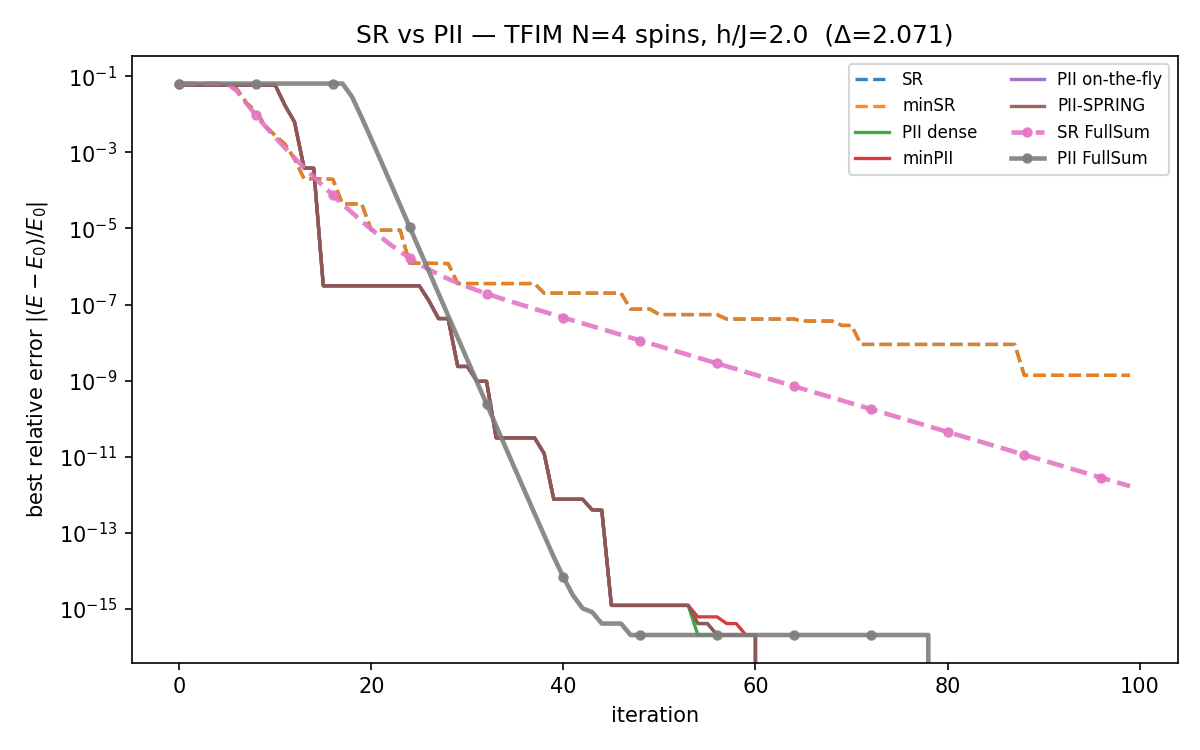
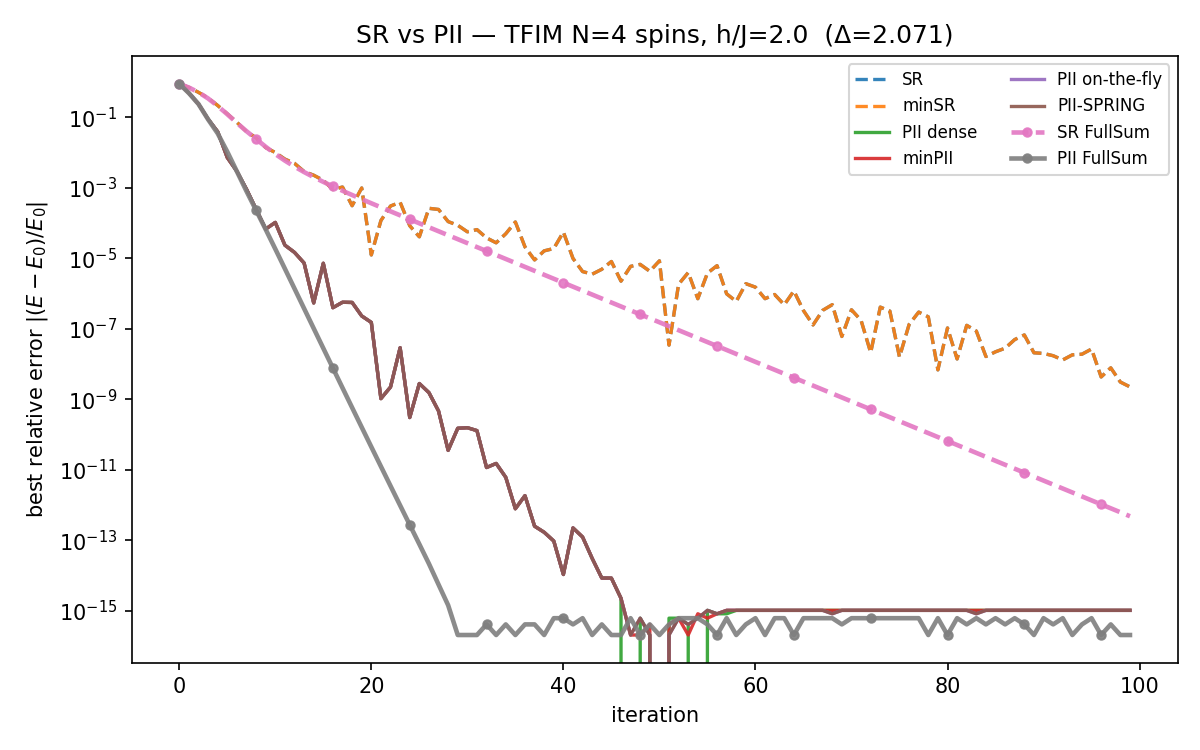
First working version of all methods, with comparison scripts

diff --git a/test/test_convention.py b/test/test_convention.py
@@ -1,0 +1,168 @@
+r"""Lock the SR↔PII factor-of-2, η=1, and SPRING conventions.
+
+These tests pin, against independent references (NetKet's own energy gradient and
+hand-assembled linear systems), that:
+
+- SR solves ``S ξ = ∇E``           (no ½),
+- PII solves ``Q ξ = ½∇E`` with ``Q = H − τS + λI``, and the driver with ``η=1``
+  applies exactly ``θ ← θ − Q⁻¹(½∇E)`` (paper Eq. 5),
+- the ½ is the *only* difference (adversarial "missing-½ would 2×" control, and the
+  τ→−∞ asymptotic ``‖ξ_PII‖/‖ξ_SR‖ → 1/(2|τ|)``),
+- SPRING carries the ½ and the ``λμ`` anchor correctly (Eq. 36), with all paths
+  consistent and ``momentum=0`` ≡ plain PII.
+
+All deterministic: exact ``FullSumState`` (no MC noise) for the gradient/step checks,
+and fixed sampler-free inputs for the SPRING unit checks.
+"""
+
+import jax
+import jax.numpy as jnp
+import jax.flatten_util as fu
+import numpy as np
+import optax
+import netket as nk
+
+import pii
+from pii._ngd.common import _prepare_input, _prepare_weights, get_samples_and_pdf
+from pii._ngd.local_energy import make_local_energy_funs
+from pii._ngd.pii_dense import _compute_pii_update_dense
+from pii._ngd.pii_kernel import _compute_minpii_update
+
+from .common import tfim, make_fullsum, fixed_inputs, gen_solver
+
+LAM = 1e-3
+
+
+def _ravel(tree):
+    return np.asarray(fu.ravel_pytree(tree)[0])
+
+
+def _assemble_fullsum(vs, H):
+    """Reconstruct the centered/scaled (O_L, A_L, dv) exactly as ``_pii_common`` does."""
+    samples, pdf_raw = get_samples_and_pdf(vs)
+    pdf, mass = _prepare_weights(pdf_raw, samples.shape[0])
+    f_EL, f_A = make_local_energy_funs(vs, H)
+    eloc = f_EL(vs.variables, samples)
+    jac_kw = dict(mode="real", dense=True, center=True, pdf=pdf)
+    O = nk.jax.jacobian(vs._apply_fun, vs.parameters, samples, vs.model_state, **jac_kw)
+    A = nk.jax.jacobian(f_A, vs.parameters, samples, vs.model_state, **jac_kw)
+    return _prepare_input(O, A, eloc, mode="real", scaling_factor=mass)
+
+
+def _one_step_param_delta(vs, H, **vmc_kw):
+    """Run one driver step with η=1 and return ξ = θ_before − θ_after."""
+    th0 = _ravel(vs.parameters)
+    d = pii.VMC(H, optax.sgd(1.0), variational_state=vs, mode="real", **vmc_kw)
+    d.run(n_iter=1, show_progress=False)
+    return th0 - _ravel(vs.parameters)
+
+
+# --------------------------------------------------------------------------- #
+# factor of 2 in the gradient (independent: NetKet's expect_and_grad)
+# --------------------------------------------------------------------------- #
+def test_gradient_assembly_matches_netket():
+    _, hi, H, _ = tfim()
+    vs = make_fullsum(hi, seed=0)
+    O_L, A_L, dv = _assemble_fullsum(vs, H)
+    grad_assembled = np.asarray(O_L.T @ dv)
+    _, grad_tree = vs.expect_and_grad(H)
+    grad_netket = _ravel(grad_tree)
+    # Oᵀdv must equal NetKet's own energy gradient (the factor 2 in dv is what makes
+    # this hold). This is the netket-independent anchor for the factor-of-2.
+    np.testing.assert_allclose(grad_assembled, grad_netket, rtol=1e-7, atol=1e-9)
+
+
+# --------------------------------------------------------------------------- #
+# PII step = Q⁻¹(½∇E) with η=1  (+ adversarial missing-½ control)
+# --------------------------------------------------------------------------- #
+def test_pii_step_is_Qinv_half_grad():
+    _, hi, H, _ = tfim()
+    vs = make_fullsum(hi, seed=0)
+    tau = -5.0
+
+    O_L, A_L, dv = _assemble_fullsum(vs, H)  # assemble BEFORE the step mutates vs
+    grad = O_L.T @ dv
+    S = O_L.T @ O_L
+    Hm = O_L.T @ A_L
+    Q = Hm - tau * S + LAM * jnp.eye(S.shape[0], dtype=S.dtype)
+    xi_ref = jnp.linalg.solve(Q, 0.5 * grad)
+
+    dp = _one_step_param_delta(vs, H, diag_shift=LAM, pii=True, tau=tau)
+
+    # η=1 applies exactly Q⁻¹(½∇E)
+    np.testing.assert_allclose(dp, np.asarray(xi_ref), rtol=1e-6, atol=1e-8)
+    # adversarial: dropping the ½ would have produced 2× this step
+    xi_no_half = np.asarray(jnp.linalg.solve(Q, grad))
+    np.testing.assert_allclose(xi_no_half, 2.0 * dp, rtol=1e-6, atol=1e-8)
+
+
+# --------------------------------------------------------------------------- #
+# SR step = S⁻¹ ∇E  (no ½) — the contrast that defines the factor-of-2 asymmetry
+# --------------------------------------------------------------------------- #
+def test_sr_step_is_Sinv_grad_no_half():
+    _, hi, H, _ = tfim()
+    vs = make_fullsum(hi, seed=0)
+
+    O_L, A_L, dv = _assemble_fullsum(vs, H)
+    grad = O_L.T @ dv
+    S = O_L.T @ O_L
+    xi_ref = jnp.linalg.solve(S + LAM * jnp.eye(S.shape[0], dtype=S.dtype), grad)
+
+    dp = _one_step_param_delta(vs, H, diag_shift=LAM, pii=False)
+    np.testing.assert_allclose(dp, np.asarray(xi_ref), rtol=1e-6, atol=1e-8)
+
+
+# --------------------------------------------------------------------------- #
+# SPRING: dense update matches the Eq. 36 closed form  ξ = Q⁻¹(½∇E + λμ ξ_{k-1})
+# --------------------------------------------------------------------------- #
+def _fixed_OAdv(n_samples=64):
+    log_psi, f_A, eloc, params, samples = fixed_inputs(n_samples=n_samples)
+    jac_kw = dict(mode="real", dense=True, center=True)
+    O = nk.jax.jacobian(log_psi, params, samples, {}, **jac_kw)
+    A = nk.jax.jacobian(f_A, params, samples, {}, **jac_kw)
+    O_L, A_L, dv = _prepare_input(O, A, eloc, mode="real", scaling_factor=1.0 / n_samples)
+    ps = jax.tree_util.tree_map(lambda x: jax.ShapeDtypeStruct(x.shape, x.dtype), params)
+    return O_L, A_L, dv, ps
+
+
+def test_spring_dense_matches_eq36():
+    O_L, A_L, dv, ps = _fixed_OAdv()
+    grad = O_L.T @ dv
+    S = O_L.T @ O_L
+    Hm = O_L.T @ A_L
+    tau, mu, lam = -5.0, 0.8, 1e-2
+    P = O_L.shape[-1]
+    xi_prev = jnp.asarray(np.random.default_rng(1).standard_normal(P))
+
+    upd, _, _ = _compute_pii_update_dense(
+        O_L, A_L, dv, tau=tau, diag_shift=lam, solver_fn=gen_solver, mode="real",
+        momentum=mu, old_updates=xi_prev, params_structure=ps,
+    )
+    Q = Hm - tau * S + lam * jnp.eye(P, dtype=S.dtype)
+    ref = jnp.linalg.solve(Q, 0.5 * grad + lam * mu * xi_prev)
+    np.testing.assert_allclose(np.asarray(upd), np.asarray(ref), rtol=1e-6, atol=1e-8)
+
+
+def test_spring_dense_equals_kernel_over_iterations():
+    O_L, A_L, dv, ps = _fixed_OAdv()
+    tau, mu, lam = -5.0, 0.8, 1e-2
+    P = O_L.shape[-1]
+    kw = dict(tau=tau, diag_shift=lam, solver_fn=gen_solver, mode="real",
+              params_structure=ps)
+    od = jnp.zeros(P)
+    ok = jnp.zeros(P)
+    for _ in range(3):
+        d, od, _ = _compute_pii_update_dense(O_L, A_L, dv, momentum=mu, old_updates=od, **kw)
+        k, ok, _ = _compute_minpii_update(O_L, A_L, dv, momentum=mu, old_updates=ok, **kw)
+    np.testing.assert_allclose(np.asarray(d), np.asarray(k), rtol=1e-6, atol=1e-8)
+
+
+def test_momentum_zero_equals_none():
+    O_L, A_L, dv, ps = _fixed_OAdv()
+    tau, lam = -5.0, 1e-2
+    P = O_L.shape[-1]
+    kw = dict(tau=tau, diag_shift=lam, solver_fn=gen_solver, mode="real",
+              params_structure=ps)
+    upd_none, _, _ = _compute_pii_update_dense(O_L, A_L, dv, momentum=None, old_updates=None, **kw)
+    upd_zero, _, _ = _compute_pii_update_dense(O_L, A_L, dv, momentum=0.0, old_updates=jnp.zeros(P), **kw)
+    np.testing.assert_allclose(np.asarray(upd_zero), np.asarray(upd_none), rtol=1e-7, atol=1e-9)

diff --git a/pii/examples/compare_sr_pii_tfim.py b/pii/examples/compare_sr_pii_tfim.py
@@ -24,6 +24,7 @@ from pathlib import Path
 
 import numpy as np
 import jax.numpy as jnp
+from jax.nn.initializers import normal
 import optax
 import netket as nk
 import matplotlib.pyplot as plt
@@ -41,19 +42,37 @@ g = nk.graph.Chain(L, pbc=True)
 hi = nk.hilbert.Spin(s=0.5, N=g.n_nodes)
 H = nk.operator.Ising(hilbert=hi, graph=g, h=h)
 
-# Exact two lowest eigenvalues -> ground-state energy and spectral gap.
+# Exact spectrum endpoints -> ground-state energy, gap, and spectral spread Γ.
+import scipy.sparse.linalg as sla
+
 E0, E1 = nk.exact.lanczos_ed(H, k=2, compute_eigenvectors=False)
+Emax = float(sla.eigsh(H.to_sparse(), k=1, which="LA", return_eigenvectors=False)[0])
 gap = E1 - E0
+Gamma = Emax - E0  # spectral spread
 tau = E0 - 0.1 * gap  # undershoot by fraction of the gap
-print(f"TFIM {g.extent}, h/J={h};  E0 = {E0:.6f}, gap Δ = {gap:.4f},  τ = {tau:.6f}")
+
+# SR has a hard step-size threshold η < 1/Γ = 1/(Emax−E0): for η ≥ 1/Γ it diverges
+# (paper Theorem 2). PII has no such limit and uses η = 1.
+eta_sr_max = 1.0 / Gamma
+print(f"TFIM {g.extent}, h/J={h};  E0 = {E0:.6f}, gap Δ = {gap:.4f}, "
+      f"spread Γ = {Gamma:.4f},  τ = {tau:.6f}")
+print(f"SR critical learning rate  η_max = 1/Γ = {eta_sr_max:.4g}  "
+      f"(SR diverges for η ≥ this; we use lr_sr below it). PII uses η = 1.")
 
 # Each entry: a learning rate and the pii.VMC keyword arguments. SR needs a small
 # learning rate; PII uses η = 1.
 
-lr_sr = 2e-2
+lr_sr = eta_sr_max
 diag_shift_sr = 1e-4
-lr_pii = 0.5
-diag_shift_pii = 1e-2
+# PII's natural learning rate is η = 1: the update ξ = Q⁻¹(½∇E) already *is* the
+# (Galerkin-projected) inverse-iteration step (paper Eq. 5), so η=1 applies it
+# exactly.
+lr_pii = 1.0
+diag_shift_pii = 1e-3
+
+# For stability, we will halve both optimal learning rates.
+lr_pii /= 2.0
+lr_sr /= 2.0
 
 runs = {
     "SR": (lr_sr, dict(diag_shift=diag_shift_sr, pii=False, use_ntk=False)),
@@ -89,22 +108,30 @@ runs = {
     ),
 }
 
+# One shared model + one set of starting parameters used by *every* method, so the
+# comparison starts from an identical state. We use a larger init stddev (0.3) than
+# the default (0.01): the tiny default puts logψ≈0, i.e. ψ ≈ the uniform |+x⟩^N
+# state, which for this small TFIM is a special low-energy point the optimizer must
+# climb out of (the transient energy "bump"). A generic start removes that.
+# model = nk.models.RBM(alpha=1, param_dtype=complex)
+_init = normal(stddev=0.3)
+model = pii.models.RBMRealParams(
+    alpha=1, param_dtype=jnp.float64,
+    kernel_init=_init, hidden_bias_init=_init, visible_bias_init=_init,
+)
+init_params = nk.vqs.FullSumState(hi, model, seed=0).parameters
+
 results = {}
 for label, (lr, kw) in runs.items():
     kw = dict(kw)
-    # model = nk.models.RBM(alpha=1, param_dtype=complex)
-    model = pii.models.RBMRealParams(alpha=1, param_dtype=jnp.float64)
     if kw.pop("fullsum", False):
         vstate = nk.vqs.FullSumState(hi, model, seed=0)
     else:
-        sampler = nk.sampler.MetropolisLocal(hi, n_chains=512, sweep_size=hi.size*3)
+        sampler = nk.sampler.MetropolisLocal(hi, n_chains=512, sweep_size=hi.size * 3)
         vstate = nk.vqs.MCState(
-            sampler,
-            model, 
-            n_samples=1024, 
-            seed=0,
-            n_discard_per_chain=4
+            sampler, model, n_samples=1024, seed=0, n_discard_per_chain=4
         )
+    vstate.parameters = init_params  # identical starting parameters for every method
     opt = optax.sgd(lr)
     # RBMRealParams has a complex log-amplitude (real params), so use mode="complex".
     # (mode="real" would truncate the phase and is only for real-output ansätze.)
@@ -128,7 +155,8 @@ for label, energies in results.items():
     kw = runs[label][1]
     is_pii = kw.get("pii", False)
     is_fullsum = kw.get("fullsum", False)
-    rel = np.minimum.accumulate(np.abs((energies - E0) / E0))  # best so far
+    rel = np.abs((energies - E0) / E0)
+    # rel = np.minimum.accumulate(np.abs((energies - E0) / E0))  # best so far
     plt.semilogy(
         rel,
         label=label,

diff --git a/pii/driver.py b/pii/driver.py
@@ -197,21 +197,25 @@ class VMC(AbstractOptimizationDriver):
                 "`mode='complex'` (or `mode=None` to auto-detect)."
             )
         if self._mode == "real":
-            # mode='real' keeps only Re(log ψ); if the ansatz has a complex
-            # log-amplitude (e.g. RBMRealParams) this silently discards the phase
-            # and gives wrong energies. Warn loudly (it is only correct for
-            # real-output, sign-structured wavefunctions).
-            test_out = self.state._apply_fun(
-                self.state.variables,
-                self.state.hilbert.random_state(jax.random.key(0), 2),
+            # mode='real' keeps only Re(log ψ); if NetKet's own auto-detection
+            # (jacobian_default_mode) would pick 'complex' the ansatz has a complex
+            # log-amplitude (e.g. RBMRealParams), so mode='real' silently discards
+            # the phase and gives wrong energies. Warn loudly (mode='real' is only
+            # correct for real-output, sign-structured wavefunctions).
+            auto_mode = nkjax.jacobian_default_mode(
+                self.state._apply_fun,
+                self.state.parameters,
+                self.state.model_state,
+                self.state.hilbert.random_state(jax.random.key(0), 3),
+                warn=False,
             )
-            if jnp.iscomplexobj(test_out):
+            if auto_mode == "complex":
                 warn(
                     "`mode='real'` is being used with an ansatz that has a "
-                    "complex-valued log-amplitude: this truncates the phase and "
-                    "is almost certainly wrong (it is only valid for real-output, "
-                    "sign-structured wavefunctions). Use `mode='complex'` "
-                    "(or `mode=None` to auto-detect).",
+                    "complex-valued log-amplitude (NetKet auto-detects 'complex'): "
+                    "this truncates the phase and is almost certainly wrong (it is "
+                    "only valid for real-output, sign-structured wavefunctions). "
+                    "Use `mode='complex'` (or `mode=None` to auto-detect).",
                     stacklevel=2,
                 )
 
